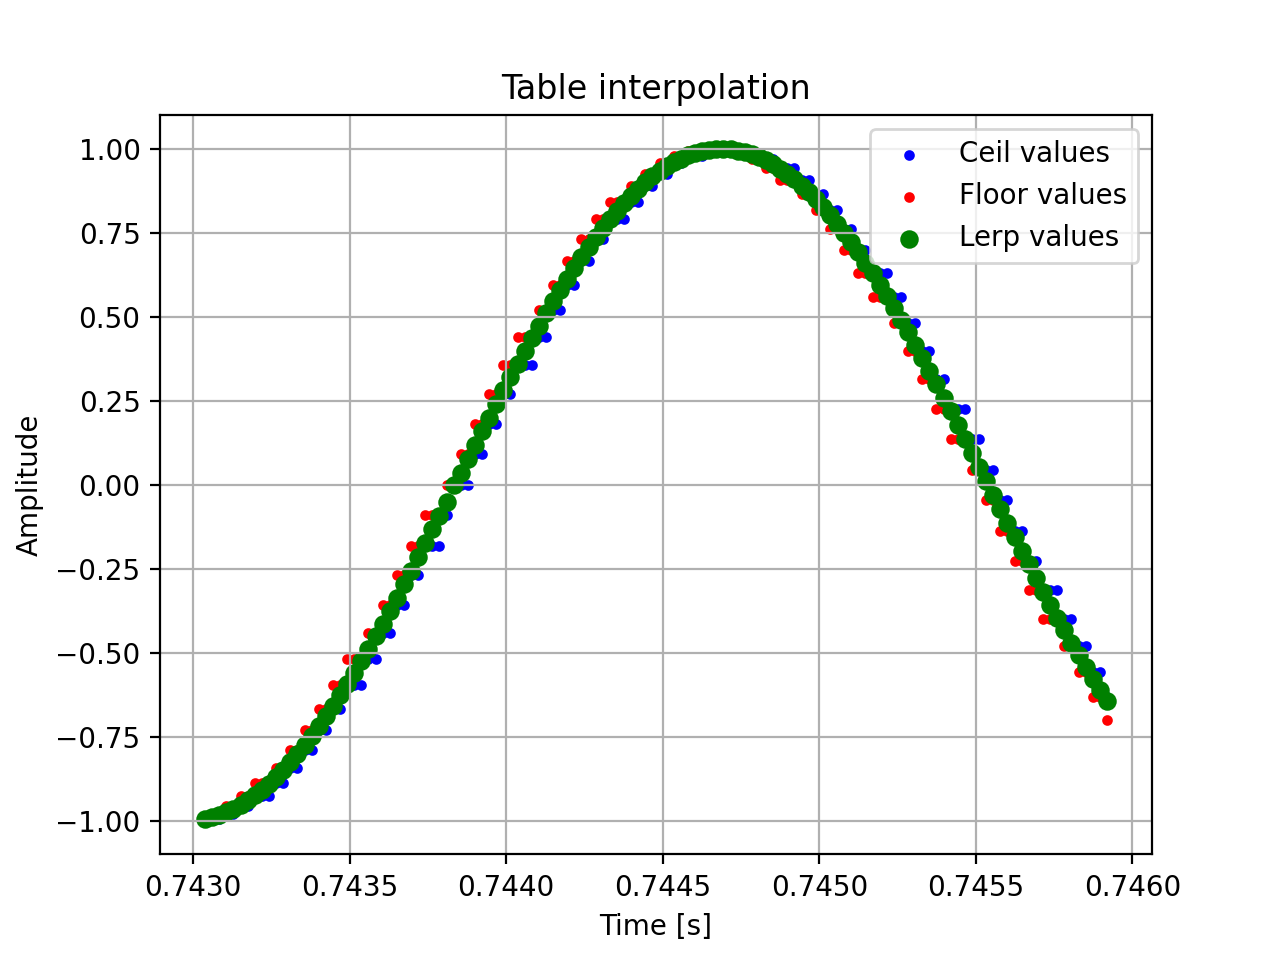
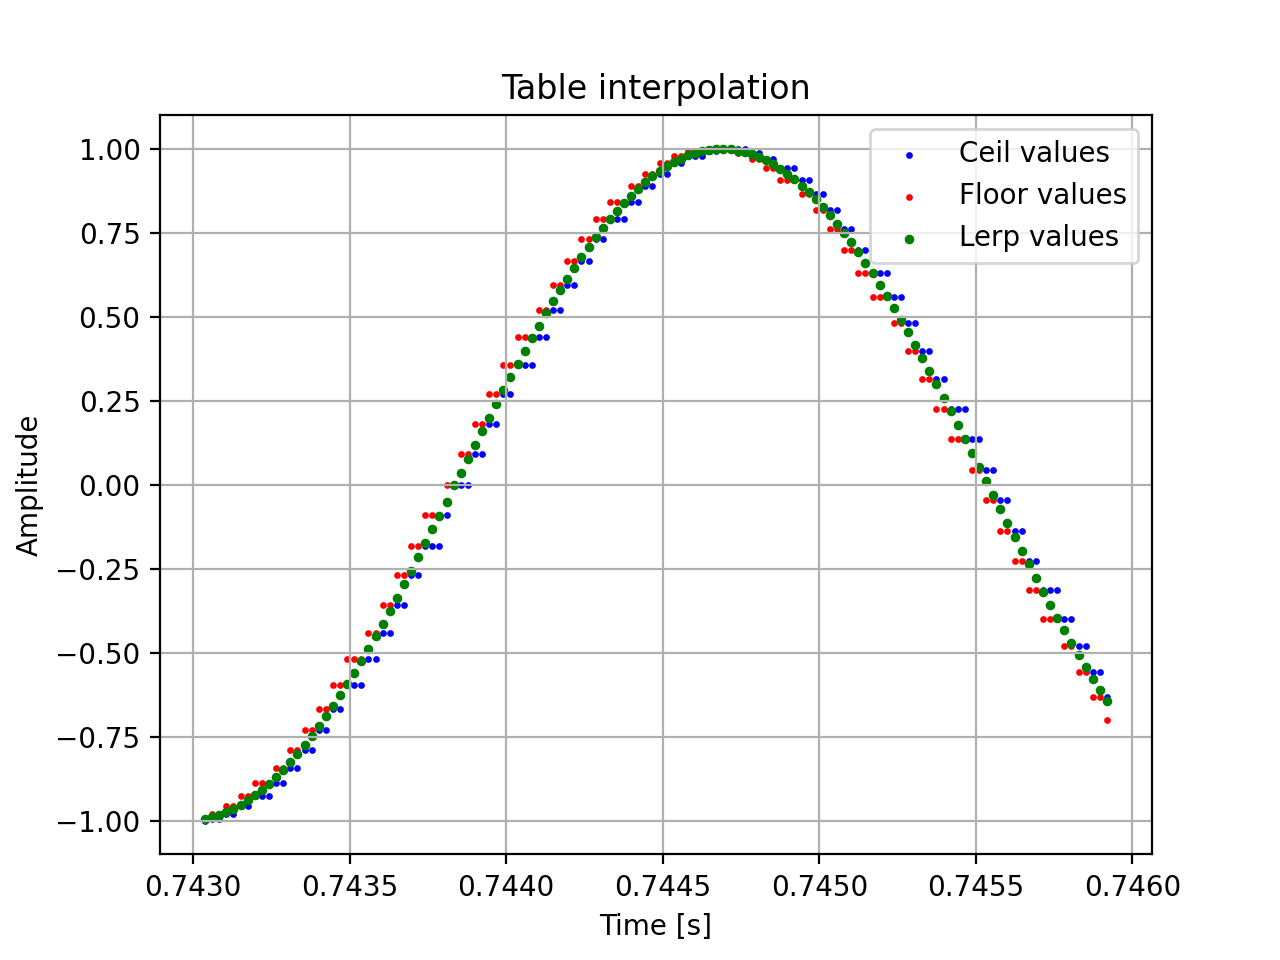
Gráfica mas clara

Changed region(s): [[0.1562, 0.125, 0.875, 0.875]]

diff --git a/scripts/plot-interpolation.py b/scripts/plot-interpolation.py
@@ -21,13 +21,12 @@ il = 2**15
 ir = il + 2**7
 
 mark = 'o'
-marksize = 8
 
 plottype = plt.scatter
 
-plottype(t[il:ir], tablel[il:ir], marker=mark, s=marksize, c='blue', label='Ceil values')
-plottype(t[il:ir], tabler[il:ir], marker=mark, s=marksize, c='red', label='Floor values')
-plottype(t[il:ir], tablelerp[il:ir], marker=mark, s=4*marksize, c='green', label='Lerp values')
+plottype(t[il:ir], tablel[il:ir], marker=mark, s=2, c='blue', label='Ceil values')
+plottype(t[il:ir], tabler[il:ir], marker=mark, s=2, c='red', label='Floor values')
+plottype(t[il:ir], tablelerp[il:ir], marker=mark, s=6, c='green', label='Lerp values')
 
 plt.title('Table interpolation')
 plt.xlabel('Time [s]')
